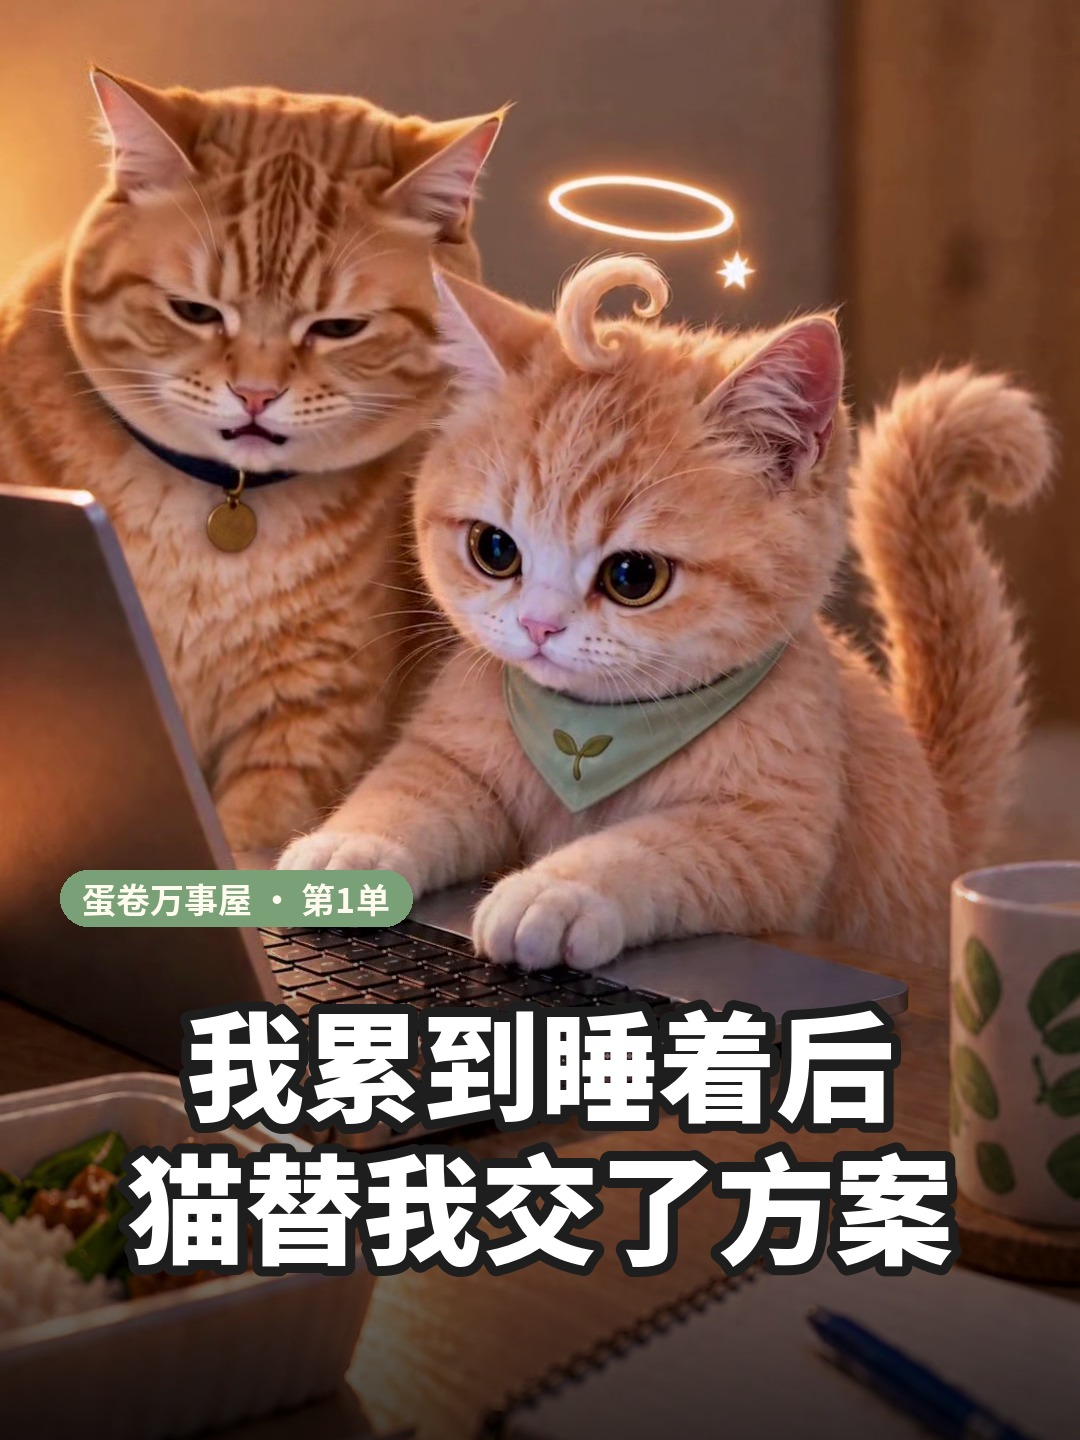
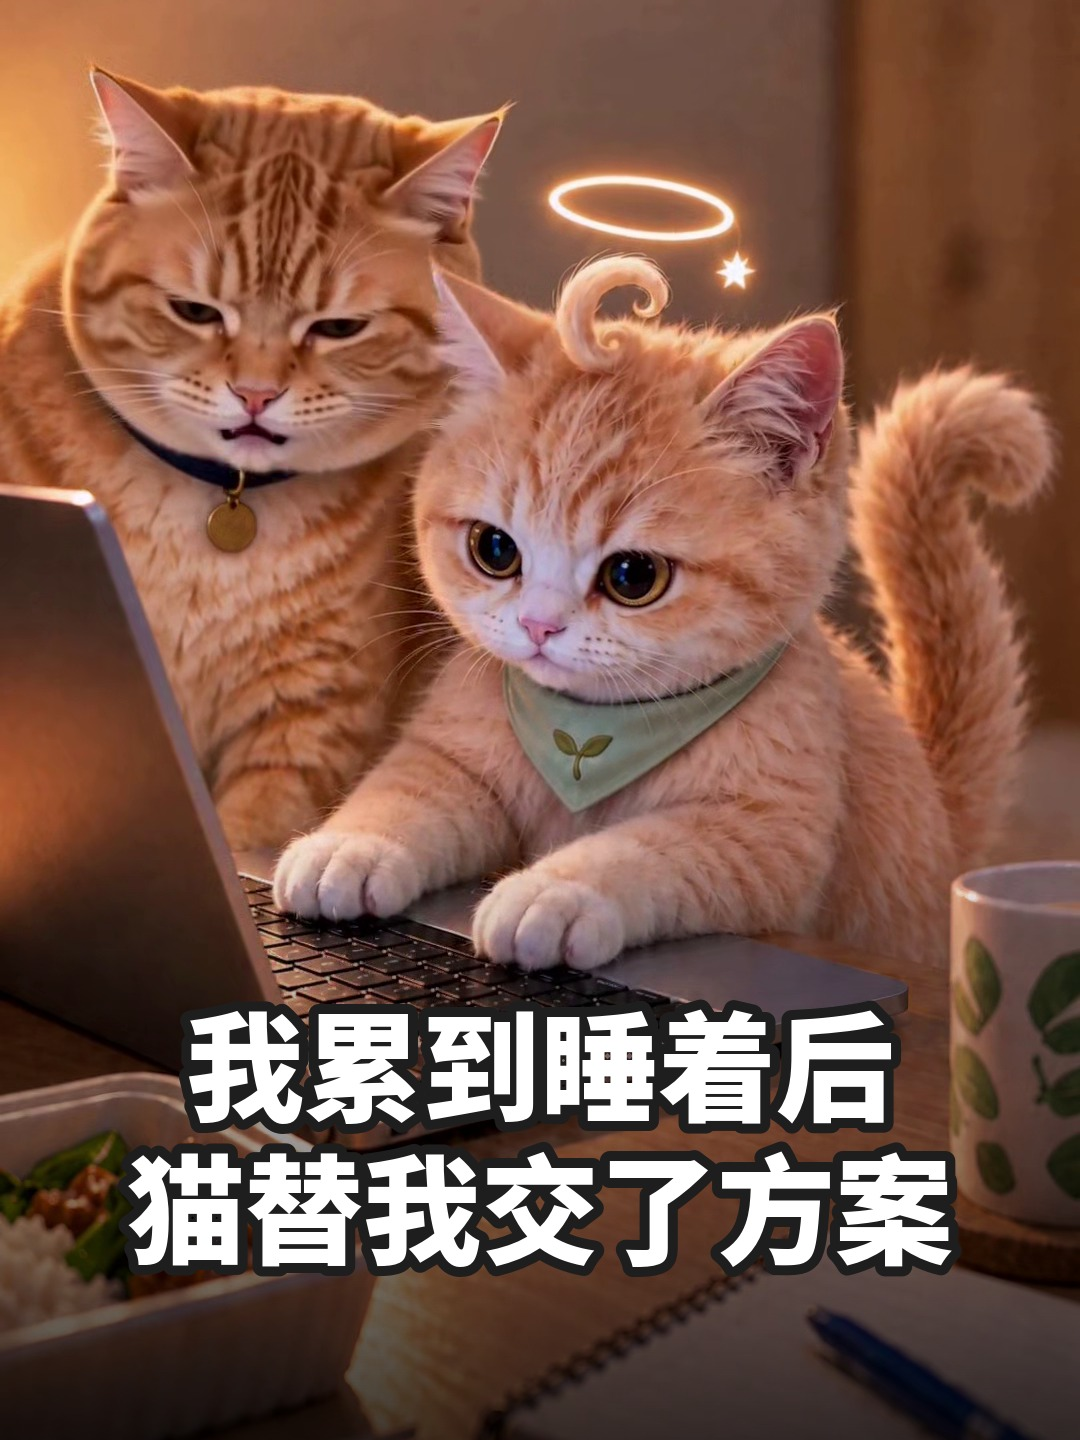
Publish kit: remove series badge from covers
Claude-Session: https://claude.ai/code/session_018NhiyHhujbe5UQQKro6V65

Changed region(s): [[0.0611, 0.5938, 0.3972, 0.6562]]

diff --git a/projects/ai-video/publish/index.html b/projects/ai-video/publish/index.html
@@ -31,7 +31,7 @@ ul{padding-left:20px;margin:6px 0}li{margin:3px 0}footer{margin-top:40px;font-si
 
 <section class="box"><h2>账号统一信息</h2>
 <p><b>账号名：</b>蛋卷万事屋　<b>简介：</b>云上有间万事屋，住着一只卷毛小猫蛋卷。一根胡须捎来小心愿，蛋卷和你一起想办法。AI原创萌宠短剧｜念念不忘，必有回响。 <button class="copy" type="button" data-copy="云上有间万事屋，住着一只卷毛小猫蛋卷。一根胡须捎来小心愿，蛋卷和你一起想办法。AI原创萌宠短剧｜念念不忘，必有回响。">复制简介</button></p>
-<p><b>每条都要做：</b>发布页勾选“内容由AI生成”类声明（国家网信办《人工智能生成合成内容标识办法》2025年9月1日起施行，平台已把标注入口放到发布首页）；正文里也写明“AI原创萌宠短剧”。四集建一个合集／系列“蛋卷万事屋”，封面统一带“蛋卷万事屋 · 第N单”绿色角标，方便从主页连看。</p>
+<p><b>每条都要做：</b>发布页勾选“内容由AI生成”类声明（国家网信办《人工智能生成合成内容标识办法》2025年9月1日起施行，平台已把标注入口放到发布首页）；正文里也写明“AI原创萌宠短剧”。四集建一个合集／系列“蛋卷万事屋”，方便从主页连看；封面只放本集标题，不加系列角标。</p>
 <p><b>不变的底线：</b>标题、封面不写也不暗示猫受委屈、受欺负；卖点放在“猫替人分忧”和“猫的真实小习惯”上。</p></section>
 
 <section class="box"><h2>四个平台怎么分别做</h2><div class="scroll"><table>
